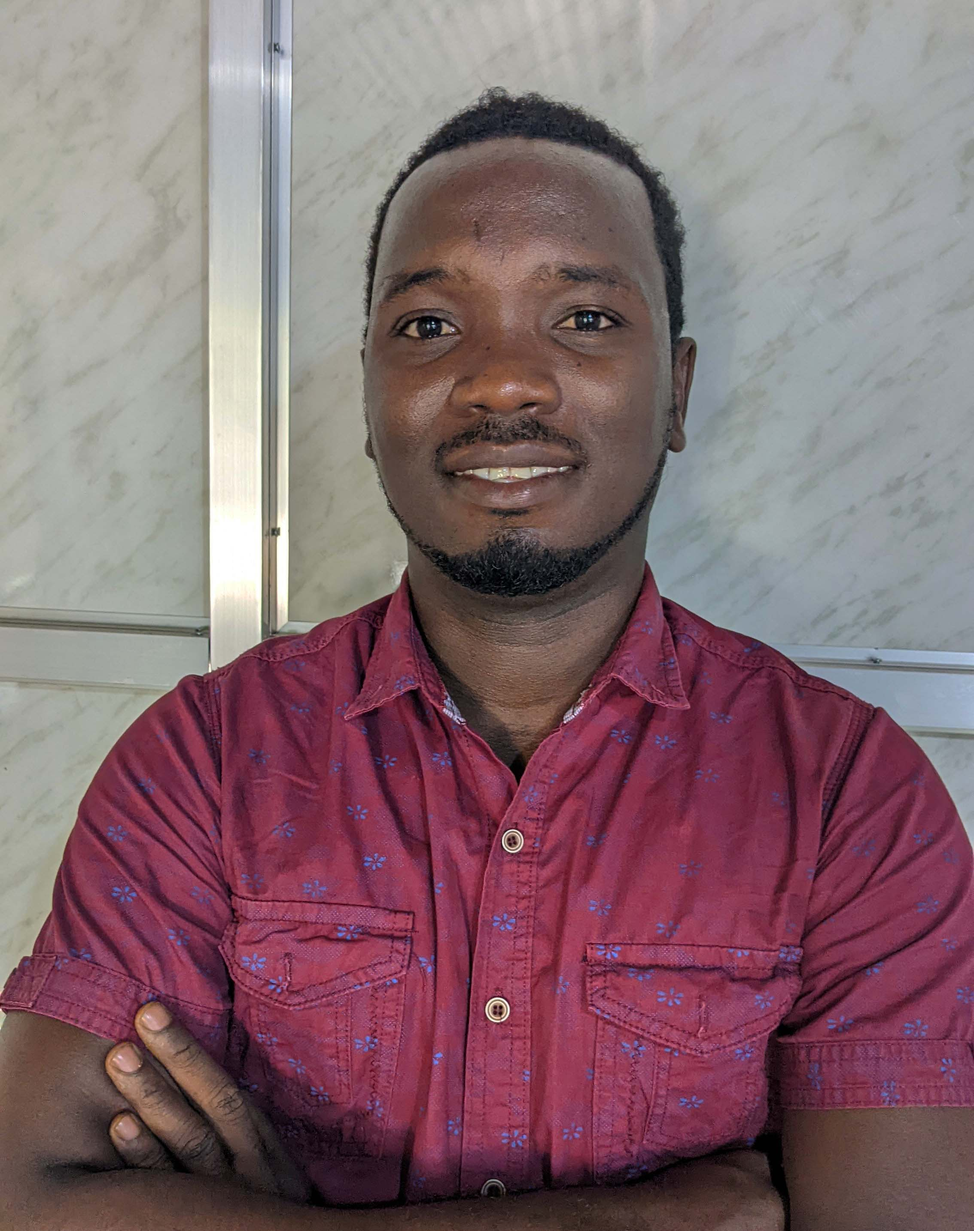
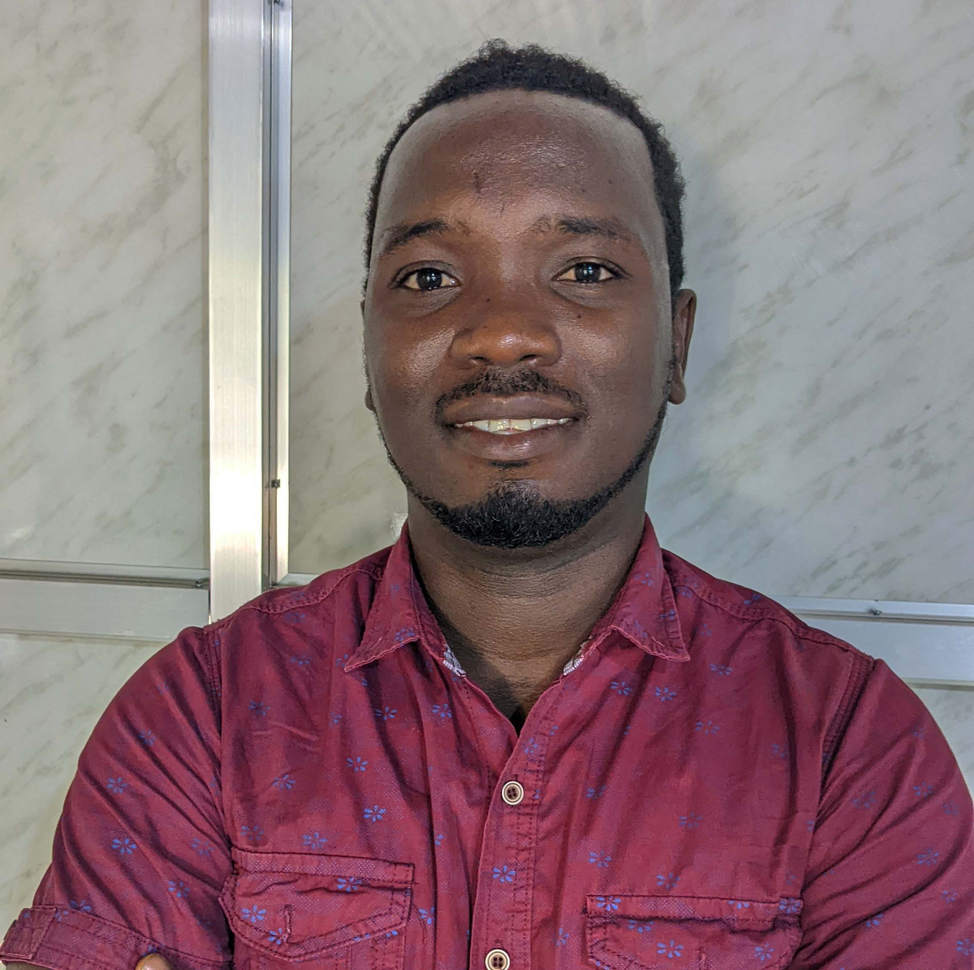
Edit hero image with and height

diff --git a/components/Hero.jsx b/components/Hero.jsx
@@ -61,8 +61,8 @@ const Hero = () => {
           src={amkam}
           alt="Amadu Kamara"
           className="rounded-full shadow-md"
-          width={520}
-          height={550}
+          width={510}
+          height={520}
         />
       </div>
     </section>

diff --git a/pages/about.js b/pages/about.js
@@ -1,7 +1,11 @@
 import React from "react";
 
 const About = () => {
-  return <div className="text-white py-32">About</div>;
+  return (
+    <div className="text-white py-32">
+      <h1>About</h1>
+    </div>
+  );
 };
 
 export default About;
